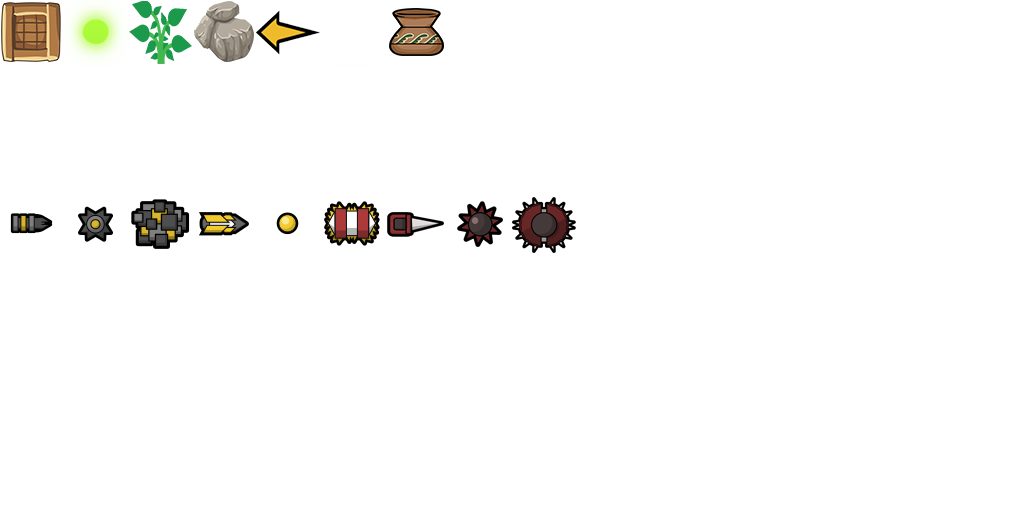
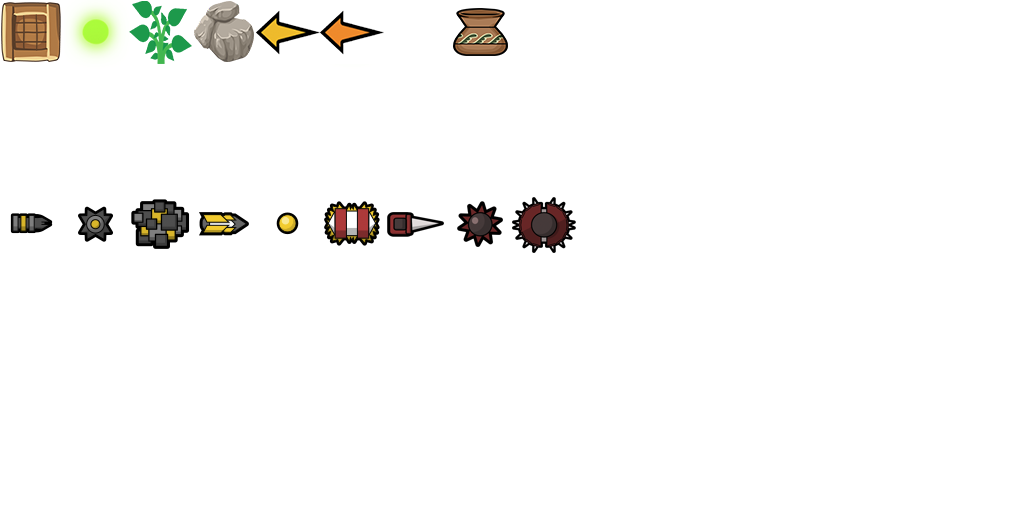
add main arrow / side arrow / update to 1.1.2

Changed region(s): [[0.3125, 0.0, 0.5, 0.125]]

diff --git a/src/game/server/mmocore/ComponentsCore/AccountMainJob.cpp b/src/game/server/mmocore/ComponentsCore/AccountMainJob.cpp
@@ -71,7 +71,9 @@ int AccountMainJob::LoginAccount(int ClientID, const char *Login, const char *Pa
 	if(!pPlayer) 
 		return SendAuthCode(ClientID, AUTH_ALL_UNKNOWN);
 	
-	if(str_length(Login) > 12 || str_length(Login) < 4 || str_length(Password) > 12 || str_length(Password) < 4)
+	const int LengthLogin = str_length(Login);
+	const int LengthPassword = str_length(Password);
+	if(LengthLogin > 12 || LengthLogin < 4 || LengthPassword > 12 || LengthPassword < 4)
 	{
 		GS()->ChatFollow(ClientID, "Username / Password must contain 4-12 characters");
 		return SendAuthCode(ClientID, AUTH_ALL_MUSTCHAR);
@@ -97,13 +99,11 @@ int AccountMainJob::LoginAccount(int ClientID, const char *Login, const char *Pa
 			return SendAuthCode(ClientID, AUTH_LOGIN_ALREADY);
 		}
 
-		const char *pPlayerLanguage = CHECKACCESS->getString("Language").c_str();
-		GS()->Server()->SetClientLanguage(ClientID, pPlayerLanguage);
-		pPlayer->SetLanguage(pPlayerLanguage);
-
 		str_copy(pPlayer->Acc().Login, clear_Login.cstr(), sizeof(pPlayer->Acc().Login));
 		str_copy(pPlayer->Acc().Password, clear_Pass.cstr(), sizeof(pPlayer->Acc().Password));
 		str_copy(pPlayer->Acc().LastLogin, CHECKACCESS->getString("LoginDate").c_str(), sizeof(pPlayer->Acc().LastLogin));
+		GS()->Server()->SetClientLanguage(ClientID, CHECKACCESS->getString("Language").c_str());
+		pPlayer->SetLanguage(CHECKACCESS->getString("Language").c_str());
 
 		pPlayer->Acc().AuthID = UserID;
 		pPlayer->Acc().Level = ACCOUNTDATA->getInt("Level");
@@ -114,8 +114,8 @@ int AccountMainJob::LoginAccount(int ClientID, const char *Login, const char *Pa
 		pPlayer->Acc().WorldID = ACCOUNTDATA->getInt("WorldID");
 		for (const auto& at : CGS::AttributInfo)
 		{
-			if (str_comp_nocase(at.second.FieldName, "unfield") == 0) continue;
-			pPlayer->Acc().Stats[at.first] = ACCOUNTDATA->getInt(at.second.FieldName);
+			if (str_comp_nocase(at.second.FieldName, "unfield") != 0)
+				pPlayer->Acc().Stats[at.first] = ACCOUNTDATA->getInt(at.second.FieldName);
 		}
 
 		GS()->Chat(ClientID, "- - - - - - - [Successful login] - - - - - - -");

diff --git a/src/game/client/components/items.cpp b/src/game/client/components/items.cpp
@@ -364,15 +364,26 @@ void CItems::RenderMmoPickups(const CNetObj_MmoPickup* pPrev, const CNetObj_MmoP
 	vec2 Curr = vec2(pCurrent->m_X, pCurrent->m_Y);
 	vec2 Pos = mix(Prev, Curr, Client()->IntraGameTick());
 	float Angle = mix((float)pPrev->m_Angle, (float)pCurrent->m_Angle, Client()->IntraGameTick()) / 256.0f;
-	const int c[] = { SPRITE_MMO_GAME_BOX, SPRITE_MMO_GAME_EXPERIENCE, SPRITE_MMO_GAME_PLANT, SPRITE_MMO_GAME_ORES, SPRITE_MMO_GAME_ARROW, SPRITE_MMO_GAME_DROP };
+	const int c[] = 
+		{ 
+			SPRITE_MMO_GAME_BOX, 
+			SPRITE_MMO_GAME_EXPERIENCE, 
+			SPRITE_MMO_GAME_PLANT, 
+			SPRITE_MMO_GAME_ORES, 
+			SPRITE_MMO_GAME_SIDE_ARROW, 
+			SPRITE_MMO_GAME_MAIN_ARROW,
+			SPRITE_MMO_GAME_DROP };
 
 	Graphics()->TextureSet(g_pData->m_aImages[IMAGE_MMOGAME].m_Id);
 	Graphics()->QuadsBegin();
 	RenderTools()->SelectSprite(c[pCurrent->m_Type]);
-	if (pCurrent->m_Type == MMO_PICKUP_ARROW || pCurrent->m_Type == MMO_PICKUP_BOX || pCurrent->m_Type == MMO_PICKUP_DROP)
+	if (pCurrent->m_Type == MMO_PICKUP_SIDE_ARROW || pCurrent->m_Type == MMO_PICKUP_MAIN_ARROW || 
+		pCurrent->m_Type == MMO_PICKUP_BOX || pCurrent->m_Type == MMO_PICKUP_DROP)
 	{
-		if (pCurrent->m_Type == MMO_PICKUP_ARROW)
+		if(pCurrent->m_Type == MMO_PICKUP_SIDE_ARROW)
 			Size = 48.0f;
+		else if(pCurrent->m_Type == MMO_PICKUP_MAIN_ARROW)
+			Size = 64.0f;
 
 		Graphics()->QuadsSetRotation(Angle);
 		RenderTools()->DrawSprite(Pos.x, Pos.y, Size);

diff --git a/datasrc/content.py b/datasrc/content.py
@@ -648,9 +648,10 @@ container.sprites.Add(Sprite("mmo_game_box", set_mmogame, 0, 0, 1, 1))
 container.sprites.Add(Sprite("mmo_game_experience", set_mmogame, 1, 0, 1, 1))
 container.sprites.Add(Sprite("mmo_game_plant", set_mmogame, 2, 0, 1, 1))
 container.sprites.Add(Sprite("mmo_game_ores", set_mmogame, 3, 0, 1, 1))
-container.sprites.Add(Sprite("mmo_game_arrow", set_mmogame, 4, 0, 1, 1))
-container.sprites.Add(Sprite("mmo_game_effect", set_mmogame, 5, 0, 1, 1))
-container.sprites.Add(Sprite("mmo_game_drop", set_mmogame, 6, 0, 1, 1))
+container.sprites.Add(Sprite("mmo_game_side_arrow", set_mmogame, 4, 0, 1, 1))
+container.sprites.Add(Sprite("mmo_game_main_arrow", set_mmogame, 5, 0, 1, 1))
+container.sprites.Add(Sprite("mmo_game_effect", set_mmogame, 6, 0, 1, 1))
+container.sprites.Add(Sprite("mmo_game_drop", set_mmogame, 7, 0, 1, 1))
 
 # magitech fires strong control
 container.sprites.Add(Sprite("mmo_fire_magitech_gun", set_mmogame, 0, 3, 1, 1))

diff --git a/src/game/server/mmocore/GameEntities/quest_path_finder.cpp b/src/game/server/mmocore/GameEntities/quest_path_finder.cpp
@@ -48,14 +48,14 @@ void CQuestPathFinder::Snap(int SnappingClient)
 	if (GS()->CheckClient(SnappingClient))
 	{
 		vec2 Direction = normalize(m_Pos - m_TargetPos);
-		CNetObj_MmoPickup* pObj = static_cast<CNetObj_MmoPickup*>(Server()->SnapNewItem(NETOBJTYPE_MMOPICKUP, GetID(), sizeof(CNetObj_MmoPickup)));
-		if (!pObj)
+		CNetObj_MmoPickup* pMmoP = static_cast<CNetObj_MmoPickup*>(Server()->SnapNewItem(NETOBJTYPE_MMOPICKUP, GetID(), sizeof(CNetObj_MmoPickup)));
+		if (!pMmoP)
 			return;
 
-		pObj->m_X = (int)m_Pos.x;
-		pObj->m_Y = (int)m_Pos.y;
-		pObj->m_Type = MMO_PICKUP_ARROW;
-		pObj->m_Angle = (int)(angle(vec2(Direction.x, Direction.y)) * 256.0f);
+		pMmoP->m_X = (int)m_Pos.x;
+		pMmoP->m_Y = (int)m_Pos.y;
+		pMmoP->m_Type = (m_MainScenario ? (int)MMO_PICKUP_MAIN_ARROW : (int)MMO_PICKUP_SIDE_ARROW);
+		pMmoP->m_Angle = (int)(angle(vec2(Direction.x, Direction.y)) * 256.0f);
 		return;
 	}
 

diff --git a/datasrc/network.py b/datasrc/network.py
@@ -24,7 +24,7 @@ GameMsgIDs = Enum("GAMEMSG", ["TEAM_SWAP", "SPEC_INVALIDID", "TEAM_SHUFFLE", "TE
 WorldType = Enum("WORLD", ["STANDARD", "CUTSCENE", "DUNGEON"])
 TalkedStyles = Enum("TALK_STYLE", ["STANDARD", "AGRESSIVE", "HAPPED"])
 MoodType = Enum("MOOD", ["ANGRY", "AGRESSED_TANK", "AGRESSED_OTHER", "NORMAL", "FRIENDLY", "QUESTING", "PLAYER_TANK"])
-MmoPickups = Enum("MMO_PICKUP", ["BOX", "EXPERIENCE", "PLANT", "ORE", "ARROW", "DROP"])
+MmoPickups = Enum("MMO_PICKUP", ["BOX", "EXPERIENCE", "PLANT", "ORE", "SIDE_ARROW", "MAIN_ARROW", "DROP"])
 Equip = Enum("EQUIP", ["HAMMER", "GUN", "SHOTGUN", "GRENADE", "RIFLE", "MINER", "WINGS", "DISCORD"])
 Effects = Enum("EFFECT", ["SPASALON", "TELEPORT"])
 AuthCodes = Enum("AUTH", ["ALL_UNKNOWN", "ALL_MUSTCHAR", "REGISTER_GOOD", "LOGIN_GOOD", "LOGIN_ALREADY", 

diff --git a/src/game/client/components/scoreboard.cpp b/src/game/client/components/scoreboard.cpp
@@ -719,10 +719,6 @@ void CScoreboard::RenderNetworkQuality(float x, float w)
 		LineHeight
 	};
 
-	// draw time
-	x += 55.0f;
-	TextRender()->Text(0, x, 10.0f, 20.0f, aTime, -1);
-
 	for(int Bar = 0; Bar < NumBars && Score <= ScoreThresolds[Bar]; Bar++)
 	{
 		BarRect.x += BarRect.w + 3.0f;
@@ -731,6 +727,10 @@ void CScoreboard::RenderNetworkQuality(float x, float w)
 		LocalBarRect.y = BarRect.y + BarRect.h - LocalBarRect.h;
 		RenderTools()->DrawUIRect(&LocalBarRect, vec4(0.9f, 0.9f, 0.9f, 1.0f), 0, 0);
 	}
+
+	// draw time
+	x += 56.0f;
+	TextRender()->Text(0, x, 10.0f, 20.0f, aTime, -1);
 }
 
 void CScoreboard::OnRender()

diff --git a/src/game/version.h b/src/game/version.h
@@ -10,7 +10,7 @@
 	#define GAME_NETVERSION "0.7 " GAME_NETVERSION_HASH_FORCED
 	#define CLIENT_VERSION 0x0705
 	// версия клиента релиза
-	#define GAME_RELEASE_VERSION "1.1.1"
+	#define GAME_RELEASE_VERSION "1.1.2"
 
 	// весрсия под сервер
 	#define CLIENT_VERSION_MOLD 1012
